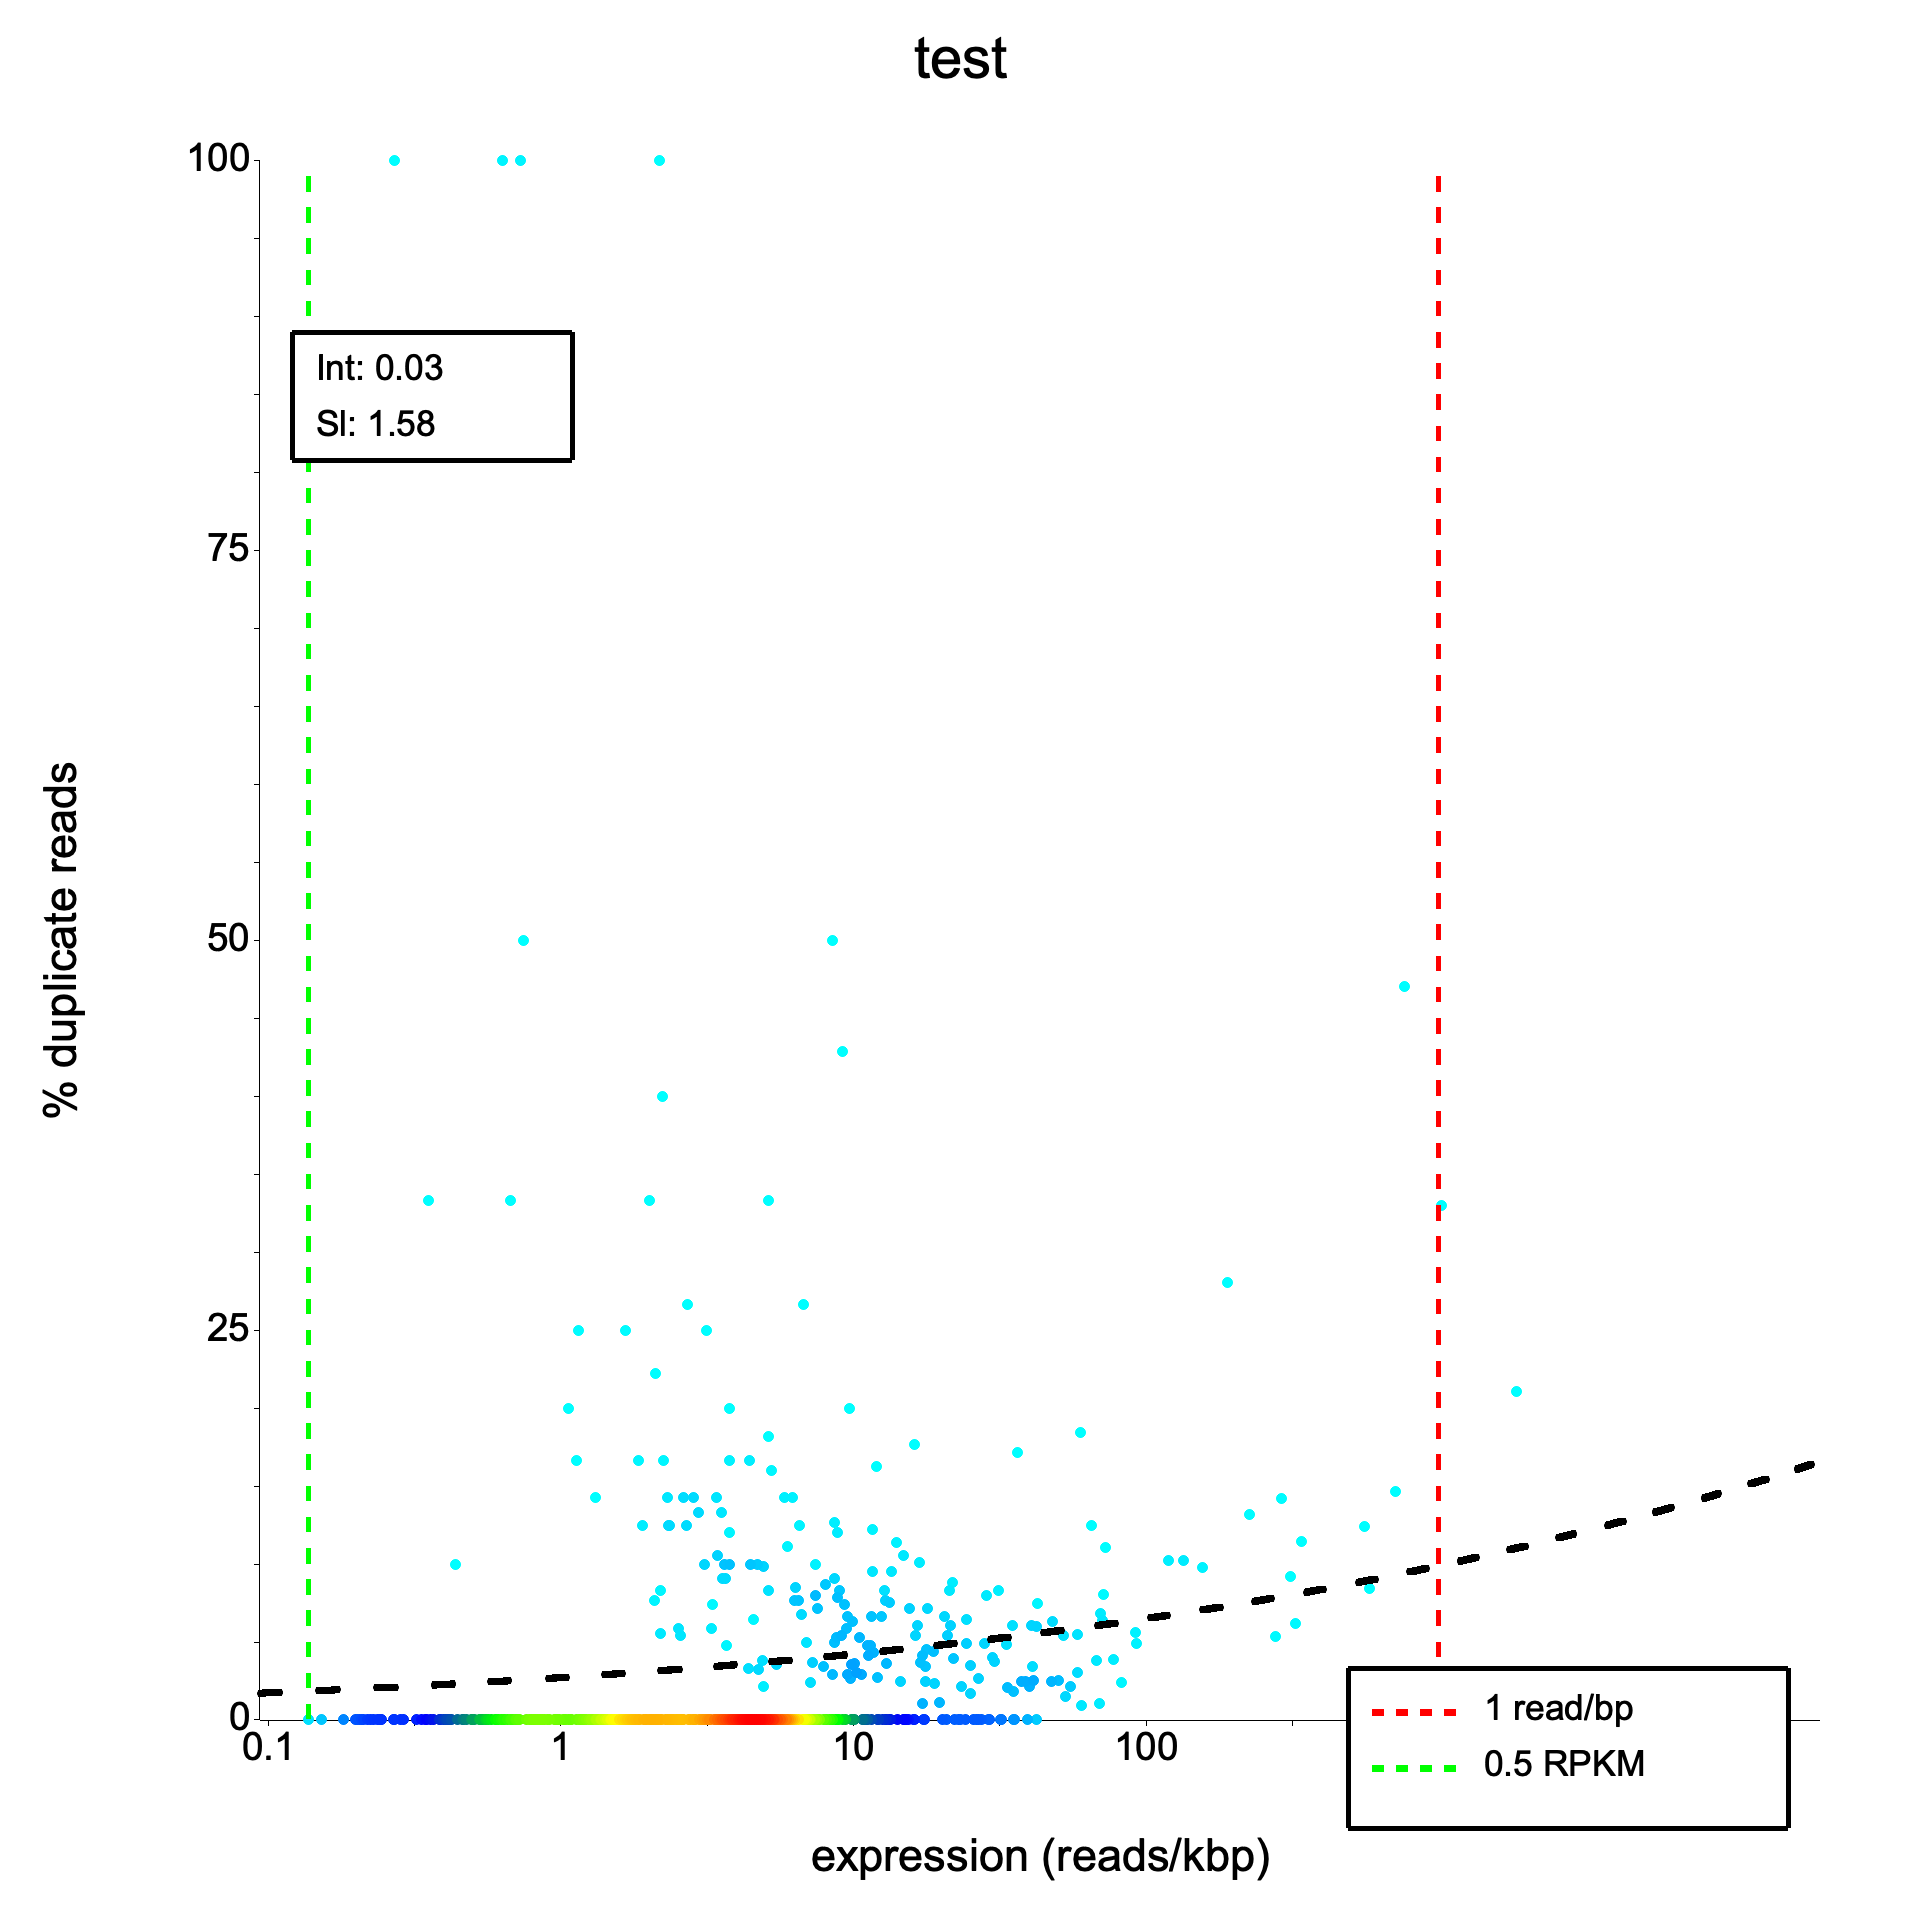
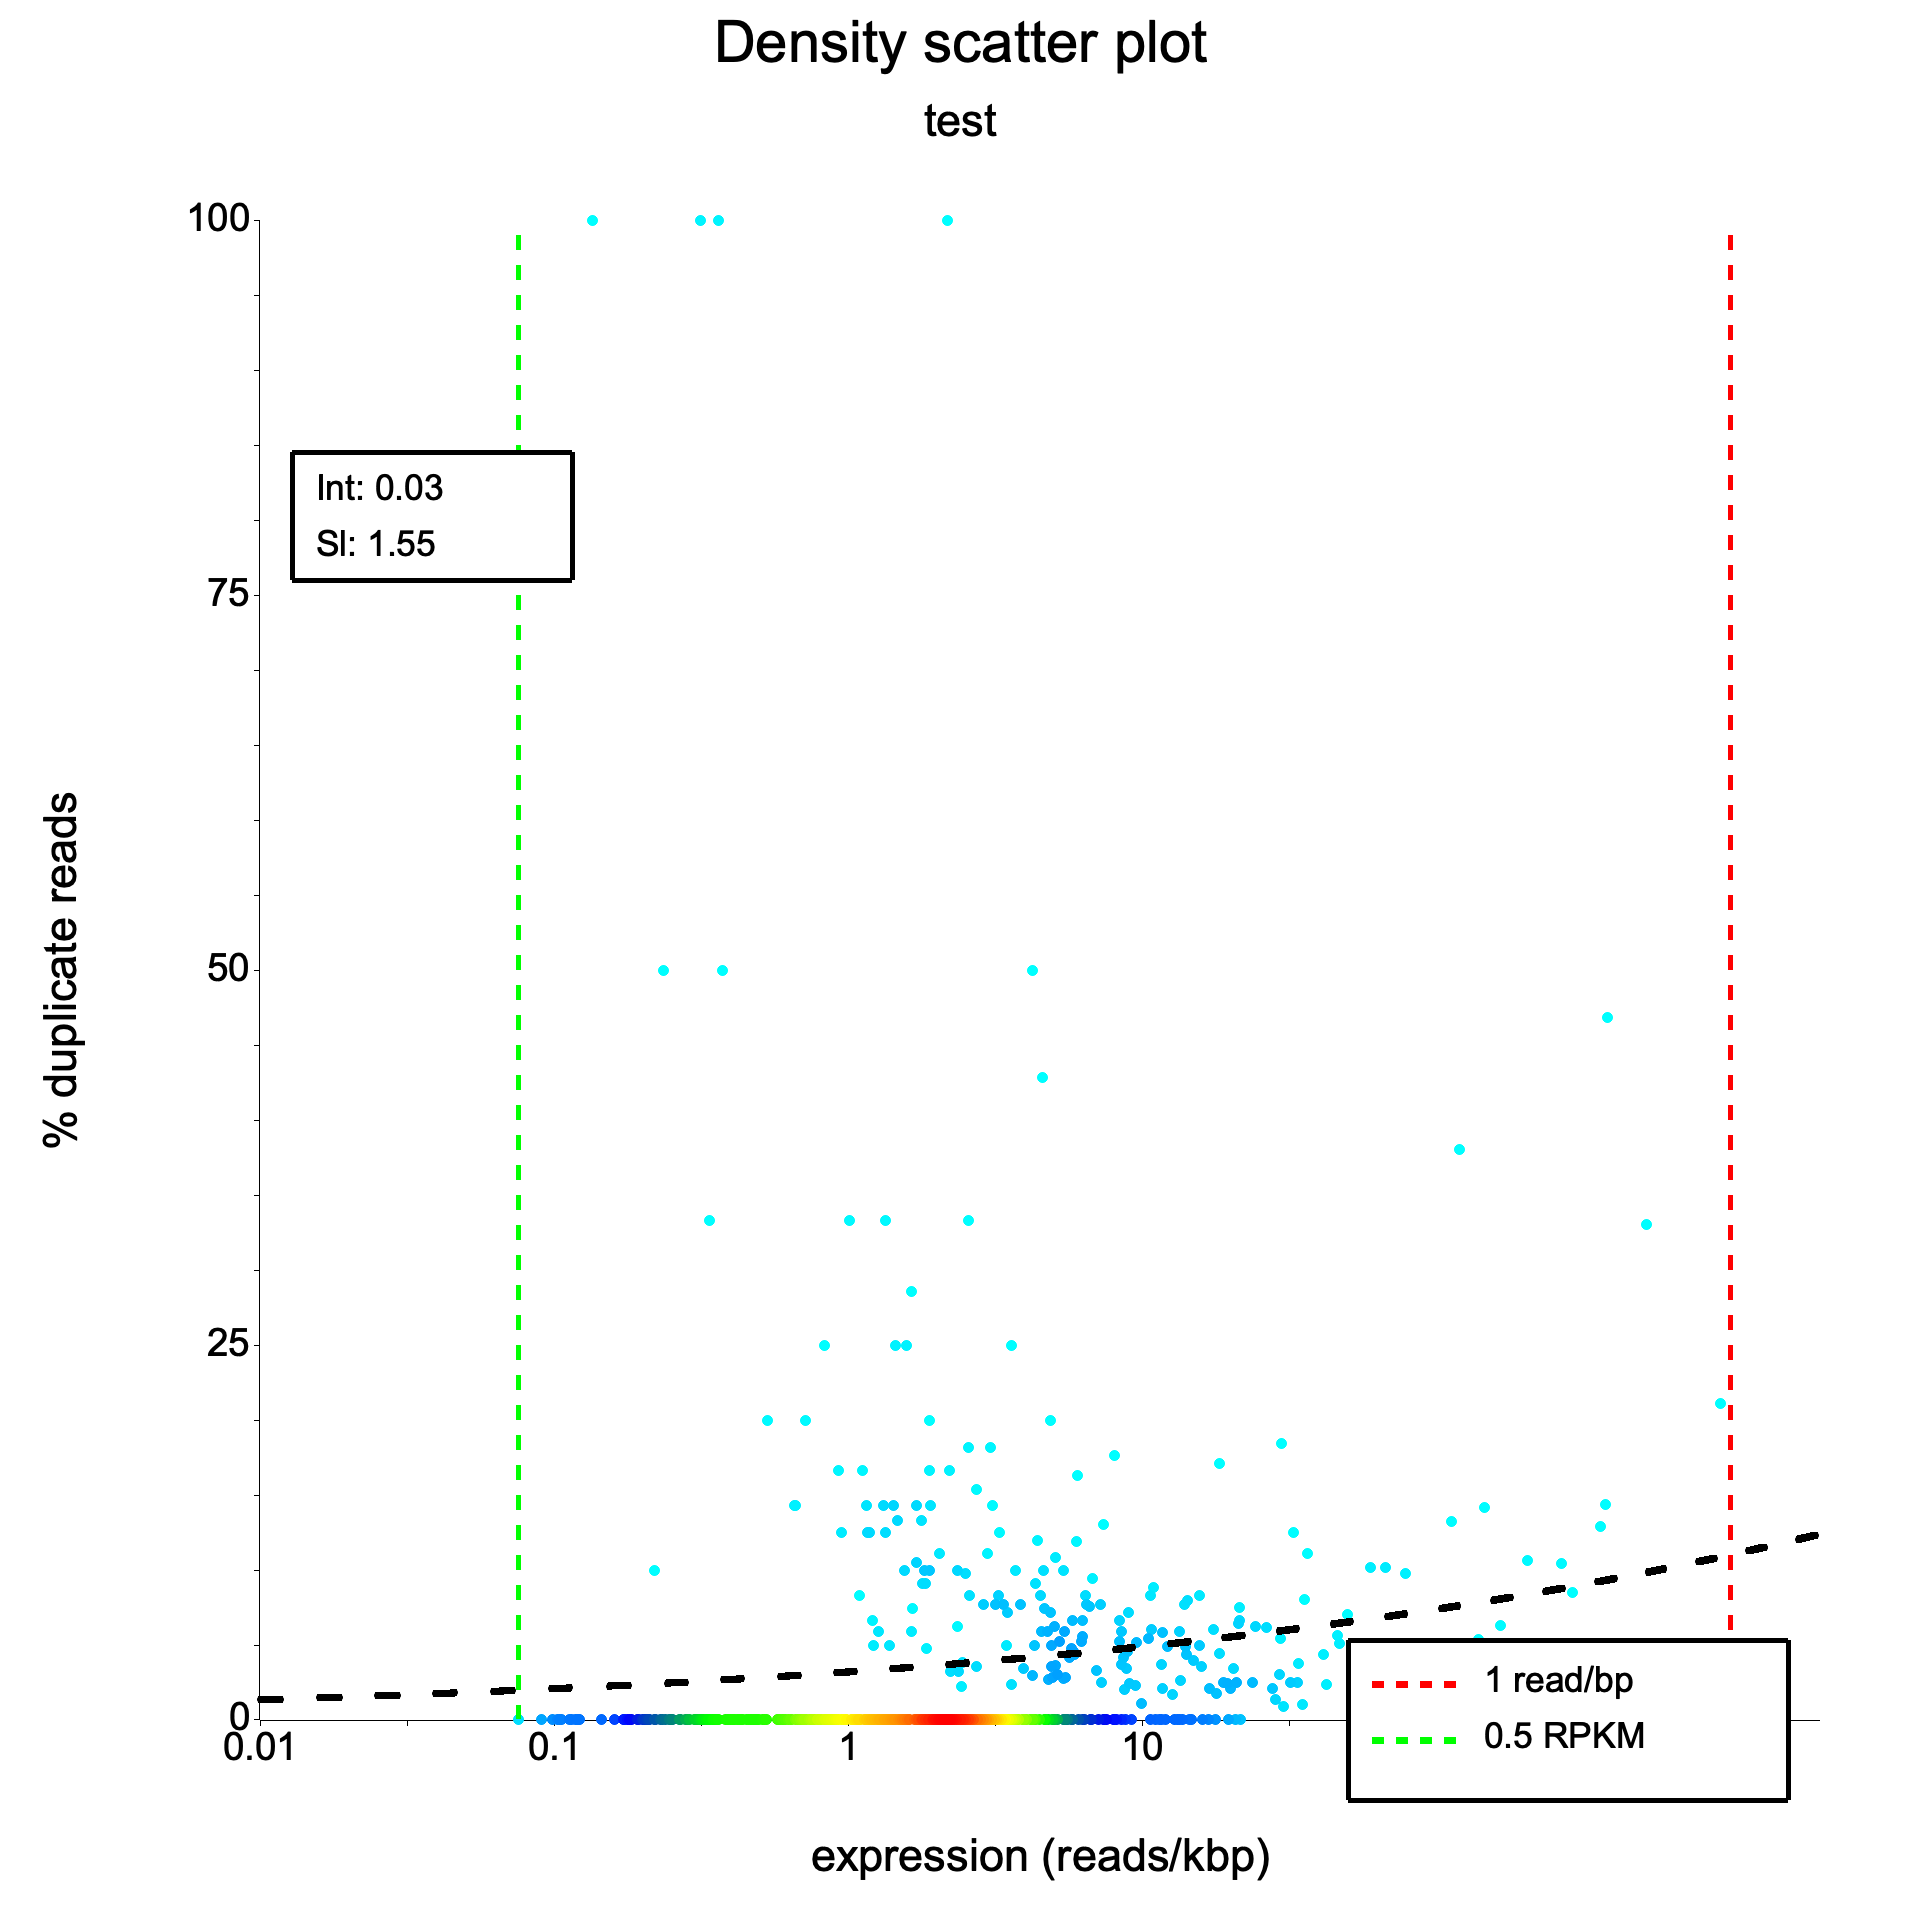
dupRadar: add upstream-matching plot titles and fix legend overlap
Add two-line title system (descriptive title + sample name subtitle) to
all three dupRadar plots, matching upstream R dupRadar exactly:
- Density scatter: 'Density scatter plot'
- Boxplot: 'Percent Duplication by Expression'
- Histogram: 'Distribution of RPK values per gene'

Fix density scatter legend position to sit entirely within the plot area,
above the x-axis labels.

diff --git a/src/rna/dupradar/plots.rs b/src/rna/dupradar/plots.rs
@@ -475,6 +475,7 @@ fn render_density_scatter<DB: DrawingBackend>(
     rpkm_threshold: Option<f64>,
     rpkm_value: f64,
     title: &str,
+    subtitle: &str,
     pxs: f64, // pixel scale (SCALE for PNG, 1 for SVG)
 ) -> Result<()>
 where
@@ -484,12 +485,13 @@ where
 
     root.fill(&WHITE)?;
 
-    // ── title ──────────────────────────────────────────────────────────
-    let title_height = ps(35.0);
+    // ── title + subtitle ───────────────────────────────────────────────
+    let title_height = ps(50.0);
     let (top_area, plot_area) = root.split_vertically(title_height);
+    let cx = (top_area.dim_in_pixel().0 as i32) / 2;
     top_area.draw(&Text::new(
         title.to_string(),
-        ((top_area.dim_in_pixel().0 as i32) / 2, (pxs * 8.0) as i32),
+        (cx, (pxs * 4.0) as i32),
         ("sans-serif", ps(18.0))
             .into_font()
             .style(FontStyle::Bold)
@@ -498,6 +500,16 @@ where
                 plotters::style::text_anchor::HPos::Center,
                 plotters::style::text_anchor::VPos::Top,
             )),
+    ))?;
+    top_area.draw(&Text::new(
+        subtitle.to_string(),
+        (cx, (pxs * 25.0) as i32),
+        ("sans-serif", ps(14.0)).into_font().color(&BLACK).pos(
+            plotters::style::text_anchor::Pos::new(
+                plotters::style::text_anchor::HPos::Center,
+                plotters::style::text_anchor::VPos::Top,
+            ),
+        ),
     ))?;
 
     // ── data ───────────────────────────────────────────────────────────
@@ -709,7 +721,7 @@ where
         let lw = (pxs * 110.0) as i32;
         let lh = (pxs * (8.0 + n_rows as f64 * 14.0 + 4.0)) as i32;
         let lx = pa_x.1 - lw - (pxs * 8.0) as i32;
-        let ly = pa_y.1 - lh - (pxs * 8.0) as i32;
+        let ly = pa_y.1 - lh - (pxs * 30.0) as i32;
 
         // Background fill
         plot_area.draw(&Rectangle::new(
@@ -780,15 +792,28 @@ where
 /// Generate the density scatter plot of duplication rate vs expression.
 ///
 /// Produces both `<output_path>.png` (high-res) and `<output_path>.svg`.
-/// The `title` is drawn centered at the top of the plot.
+/// A descriptive title is drawn centered at the top of the plot, with the
+/// sample name shown as a subtitle underneath in a slightly smaller font.
+/// This matches R dupRadar's `duprateExpDensPlot(dm, main=basename(bam))`
+/// convention where the filename is passed as the plot title.
+///
+/// # Arguments
+/// * `dm` — duplication matrix
+/// * `fit` — logistic regression fit result
+/// * `rpkm_threshold` — optional RPK value at the RPKM threshold
+/// * `rpkm_value` — the RPKM threshold value (for legend label)
+/// * `sample_name` — sample/BAM filename shown as subtitle
+/// * `output_path` — base path for `.png` and `.svg` output
 pub fn density_scatter_plot(
     dm: &DupMatrix,
     fit: &FitResult,
     rpkm_threshold: Option<f64>,
     rpkm_value: f64,
-    title: &str,
+    sample_name: &str,
     output_path: &std::path::Path,
 ) -> Result<()> {
+    let title = "Density scatter plot";
+
     // PNG (high-res)
     let png_path = output_path.with_extension("png");
     let root = BitMapBackend::new(&png_path, (s(480), s(480))).into_drawing_area();
@@ -799,13 +824,23 @@ pub fn density_scatter_plot(
         rpkm_threshold,
         rpkm_value,
         title,
+        sample_name,
         SCALE as f64,
     )?;
 
     // SVG
     let svg_path = output_path.with_extension("svg");
     let root = SVGBackend::new(&svg_path, (480, 480)).into_drawing_area();
-    render_density_scatter(root, dm, fit, rpkm_threshold, rpkm_value, title, 1.0)?;
+    render_density_scatter(
+        root,
+        dm,
+        fit,
+        rpkm_threshold,
+        rpkm_value,
+        title,
+        sample_name,
+        1.0,
+    )?;
 
     Ok(())
 }
@@ -819,6 +854,7 @@ fn render_boxplot<DB: DrawingBackend>(
     root: DrawingArea<DB, plotters::coord::Shift>,
     dm: &DupMatrix,
     title: &str,
+    subtitle: &str,
     pxs: f64,
 ) -> Result<()>
 where
@@ -828,12 +864,13 @@ where
 
     root.fill(&WHITE)?;
 
-    // ── title ──────────────────────────────────────────────────────────
-    let title_height = ps(35.0);
+    // ── title + subtitle ───────────────────────────────────────────────
+    let title_height = ps(50.0);
     let (top_area, plot_area) = root.split_vertically(title_height);
+    let cx = (top_area.dim_in_pixel().0 as i32) / 2;
     top_area.draw(&Text::new(
         title.to_string(),
-        ((top_area.dim_in_pixel().0 as i32) / 2, (pxs * 8.0) as i32),
+        (cx, (pxs * 4.0) as i32),
         ("sans-serif", ps(18.0))
             .into_font()
             .style(FontStyle::Bold)
@@ -842,6 +879,16 @@ where
                 plotters::style::text_anchor::HPos::Center,
                 plotters::style::text_anchor::VPos::Top,
             )),
+    ))?;
+    top_area.draw(&Text::new(
+        subtitle.to_string(),
+        (cx, (pxs * 25.0) as i32),
+        ("sans-serif", ps(14.0)).into_font().color(&BLACK).pos(
+            plotters::style::text_anchor::Pos::new(
+                plotters::style::text_anchor::HPos::Center,
+                plotters::style::text_anchor::VPos::Top,
+            ),
+        ),
     ))?;
 
     let step = 0.05;
@@ -1029,15 +1076,29 @@ where
 /// Generate the duplication rate boxplot by expression quantile bin.
 ///
 /// Produces both `<output_path>.png` (high-res) and `<output_path>.svg`.
-/// The `title` is drawn centered at the top of the plot.
-pub fn duprate_boxplot(dm: &DupMatrix, title: &str, output_path: &std::path::Path) -> Result<()> {
+/// A descriptive title is drawn centered at the top of the plot, with the
+/// sample name shown as a subtitle underneath in a slightly smaller font.
+/// This matches R dupRadar's `duprateExpBoxplot(dm, main=basename(bam))`
+/// convention where the filename is passed as the plot title.
+///
+/// # Arguments
+/// * `dm` — duplication matrix
+/// * `sample_name` — sample/BAM filename shown as subtitle
+/// * `output_path` — base path for `.png` and `.svg` output
+pub fn duprate_boxplot(
+    dm: &DupMatrix,
+    sample_name: &str,
+    output_path: &std::path::Path,
+) -> Result<()> {
+    let title = "Percent Duplication by Expression";
+
     // PNG
     let root = BitMapBackend::new(output_path, (s(480), s(480))).into_drawing_area();
-    render_boxplot(root, dm, title, SCALE as f64)?;
+    render_boxplot(root, dm, title, sample_name, SCALE as f64)?;
     // SVG
     let svg = output_path.with_extension("svg");
     let root = SVGBackend::new(&svg, (480, 480)).into_drawing_area();
-    render_boxplot(root, dm, title, 1.0)?;
+    render_boxplot(root, dm, title, sample_name, 1.0)?;
     Ok(())
 }
 
@@ -1050,6 +1111,7 @@ fn render_histogram<DB: DrawingBackend>(
     root: DrawingArea<DB, plotters::coord::Shift>,
     dm: &DupMatrix,
     title: &str,
+    subtitle: &str,
     pxs: f64,
 ) -> Result<()>
 where
@@ -1059,12 +1121,13 @@ where
 
     root.fill(&WHITE)?;
 
-    // ── title ──────────────────────────────────────────────────────────
-    let title_height = ps(35.0);
+    // ── title + subtitle ───────────────────────────────────────────────
+    let title_height = ps(50.0);
     let (top_area, plot_area) = root.split_vertically(title_height);
+    let cx = (top_area.dim_in_pixel().0 as i32) / 2;
     top_area.draw(&Text::new(
         title.to_string(),
-        ((top_area.dim_in_pixel().0 as i32) / 2, (pxs * 8.0) as i32),
+        (cx, (pxs * 4.0) as i32),
         ("sans-serif", ps(18.0))
             .into_font()
             .style(FontStyle::Bold)
@@ -1073,6 +1136,16 @@ where
                 plotters::style::text_anchor::HPos::Center,
                 plotters::style::text_anchor::VPos::Top,
             )),
+    ))?;
+    top_area.draw(&Text::new(
+        subtitle.to_string(),
+        (cx, (pxs * 25.0) as i32),
+        ("sans-serif", ps(14.0)).into_font().color(&BLACK).pos(
+            plotters::style::text_anchor::Pos::new(
+                plotters::style::text_anchor::HPos::Center,
+                plotters::style::text_anchor::VPos::Top,
+            ),
+        ),
     ))?;
 
     let log_rpk: Vec<f64> = dm
@@ -1176,19 +1249,29 @@ where
 /// Generate expression (RPK) histogram.
 ///
 /// Produces both `<output_path>.png` (high-res) and `<output_path>.svg`.
-/// The `title` is drawn centered at the top of the plot.
+/// A descriptive title is drawn centered at the top of the plot, with the
+/// sample name shown as a subtitle underneath in a slightly smaller font.
+/// R dupRadar's `expressionHist()` uses `main=""` (no title) by default,
+/// but the nf-core pipeline convention is to include the sample name.
+///
+/// # Arguments
+/// * `dm` — duplication matrix
+/// * `sample_name` — sample/BAM filename shown as subtitle
+/// * `output_path` — base path for `.png` and `.svg` output
 pub fn expression_histogram(
     dm: &DupMatrix,
-    title: &str,
+    sample_name: &str,
     output_path: &std::path::Path,
 ) -> Result<()> {
+    let title = "Distribution of RPK values per gene";
+
     // PNG
     let root = BitMapBackend::new(output_path, (s(480), s(480))).into_drawing_area();
-    render_histogram(root, dm, title, SCALE as f64)?;
+    render_histogram(root, dm, title, sample_name, SCALE as f64)?;
     // SVG
     let svg = output_path.with_extension("svg");
     let root = SVGBackend::new(&svg, (480, 480)).into_drawing_area();
-    render_histogram(root, dm, title, 1.0)?;
+    render_histogram(root, dm, title, sample_name, 1.0)?;
     Ok(())
 }
 
